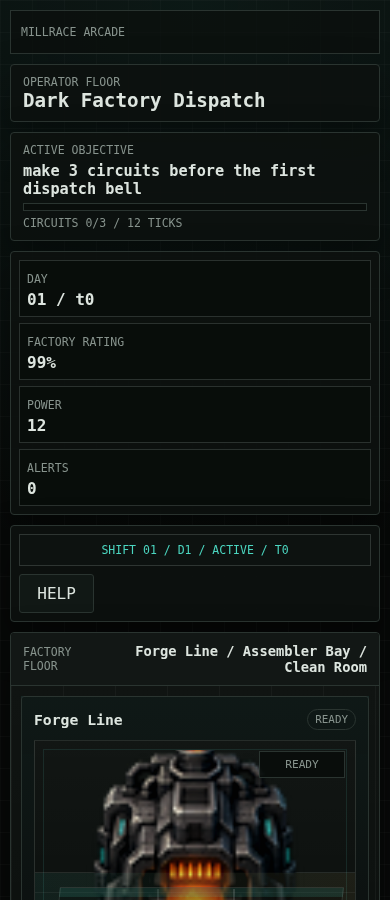
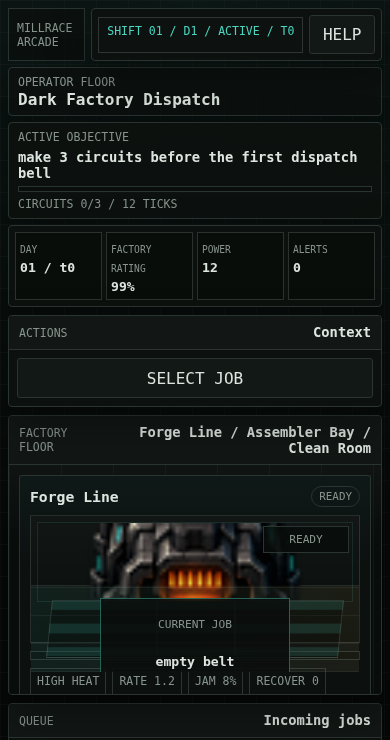
dark-factory-dispatch: refresh v0.7.0 training-shift smoke continuity

diff --git a/games/dark-factory-dispatch/versions/0.7.0/dark-factory-dispatch.js b/games/dark-factory-dispatch/versions/0.7.0/dark-factory-dispatch.js
@@ -1282,6 +1282,10 @@ const DarkFactoryDispatch = (() => {
     );
   }
 
+  function guidedTrainingShiftActive(state) {
+    return Boolean(tutorialActive(state) && state.restart && state.restart.run === 1);
+  }
+
   function setTutorialStepInPlace(state, stepId) {
     if (!state.tutorial || state.tutorial.stepId === stepId) {
       return;
@@ -5242,12 +5246,15 @@ const DarkFactoryDispatch = (() => {
     if (!state.tutorial || state.tutorial.completed) {
       return false;
     }
+    const pressureFrozen = guidedTrainingShiftActive(state);
     state.tutorial.completed = true;
     state.tutorial.status = "summary";
     state.tutorial.completedAtTick = state.tick;
     state.tutorial.contract.status = "complete";
     state.tutorial.contract.completedAtTick = state.tick;
-    state.tutorial.contract.timeRemaining = Math.max(0, state.tutorial.contract.deadline - state.tick);
+    state.tutorial.contract.timeRemaining = pressureFrozen
+      ? state.tutorial.contract.deadline
+      : Math.max(0, state.tutorial.contract.deadline - state.tick);
     state.tutorial.completionPersisted = persist
       ? writeTutorialCompletion(null, true) || state.tutorial.completionPersisted
       : state.tutorial.completionPersisted;
@@ -5261,7 +5268,9 @@ const DarkFactoryDispatch = (() => {
     if (!tutorialActive(state) || state.tutorial.contract.status !== "active") {
       return false;
     }
-    state.tutorial.contract.timeRemaining = Math.max(0, state.tutorial.contract.deadline - state.tick);
+    state.tutorial.contract.timeRemaining = guidedTrainingShiftActive(state)
+      ? state.tutorial.contract.deadline
+      : Math.max(0, state.tutorial.contract.deadline - state.tick);
     if (!tutorialContractSatisfied(state)) {
       return false;
     }
@@ -5554,7 +5563,9 @@ const DarkFactoryDispatch = (() => {
     if (completedJob.compromised) {
       applyCompromisedJobCompletion(state, lane, completedJob);
     }
-    evaluateContracts(state);
+    if (!guidedTrainingShiftActive(state)) {
+      evaluateContracts(state);
+    }
     evaluateTutorialContractInPlace(state);
   }
 
@@ -5646,12 +5657,15 @@ const DarkFactoryDispatch = (() => {
         break;
       }
       next.tick += 1;
-      maybeActivateEmergencyContracts(next);
-      advanceBreachState(next);
-      advanceGridState(next);
-      advanceRailSabotageState(next);
-      advanceFreightState(next);
-      advanceCrisisArbitrationState(next);
+      const trainingGateActive = guidedTrainingShiftActive(next);
+      if (!trainingGateActive) {
+        maybeActivateEmergencyContracts(next);
+        advanceBreachState(next);
+        advanceGridState(next);
+        advanceRailSabotageState(next);
+        advanceFreightState(next);
+        advanceCrisisArbitrationState(next);
+      }
       next.lanes.forEach((lane) => {
         advanceLaneRecovery(next, lane);
         if (lane.status !== "running" || !lane.currentJob) {
@@ -5670,7 +5684,9 @@ const DarkFactoryDispatch = (() => {
           completeLaneJob(next, lane);
         }
       });
-      evaluateContracts(next);
+      if (!trainingGateActive) {
+        evaluateContracts(next);
+      }
       evaluateTutorialContractInPlace(next);
     }
     next.log = next.log.slice(0, 8);

diff --git a/games/dark-factory-dispatch/versions/0.7.0/dark-factory-dispatch.css b/games/dark-factory-dispatch/versions/0.7.0/dark-factory-dispatch.css
@@ -1530,10 +1530,10 @@ select {
 
 @media (max-width: 720px) {
   .dispatch-shell {
+    gap: 8px;
     padding: 10px;
   }
 
-  .status-strip,
   .operator-layout,
   .left-rail,
   .right-rail {
@@ -1541,23 +1541,52 @@ select {
   }
 
   .status-strip {
+    grid-template-columns: minmax(0, 1fr) minmax(128px, auto);
+    grid-template-areas:
+      "back header-actions"
+      "identity identity"
+      "objective objective"
+      "stats stats";
+    gap: 6px;
     min-height: 0;
   }
 
+  .backlink {
+    grid-area: back;
+  }
+
+  .identity {
+    grid-area: identity;
+  }
+
+  .objective-card {
+    grid-area: objective;
+  }
+
+  .top-stats {
+    grid-area: stats;
+  }
+
+  .header-actions {
+    grid-area: header-actions;
+  }
+
   .operator-layout {
+    gap: 8px;
     grid-template-areas:
+      "actions"
       "floor"
       "left"
       "right"
-      "actions"
       "log";
   }
 
   .header-actions {
-    grid-template-columns: 1fr;
+    grid-template-columns: minmax(0, 1fr) auto;
+    gap: 6px;
+    padding: 6px;
   }
 
-  .top-stats,
   .resource-strip,
   .lane-board,
   .context-actions,
@@ -1591,6 +1620,24 @@ select {
     grid-template-columns: 1fr;
   }
 
+  .top-stats {
+    grid-template-columns: repeat(4, minmax(0, 1fr));
+    gap: 4px;
+    padding: 6px;
+  }
+
+  .stat {
+    padding: 5px 4px;
+  }
+
+  .stat span {
+    font-size: 0.6rem;
+  }
+
+  .stat strong {
+    font-size: 0.82rem;
+  }
+
   .factory-floor-panel {
     min-height: 0;
   }
@@ -1605,5 +1652,79 @@ select {
 
   .operator-log {
     max-height: none;
+  }
+}
+
+@media (max-width: 720px) and (max-height: 760px) {
+  .dispatch-shell {
+    padding: 8px;
+  }
+
+  .backlink,
+  .run-chip {
+    min-height: 36px;
+    padding: 6px 8px;
+  }
+
+  .icon-button {
+    width: 4.1rem;
+  }
+
+  .identity,
+  .objective-card {
+    padding: 7px 9px;
+  }
+
+  .identity h1 {
+    font-size: 1rem;
+    line-height: 1.08;
+  }
+
+  .objective-card strong {
+    font-size: 0.86rem;
+  }
+
+  .objective-meter,
+  .detail-meter {
+    height: 6px;
+  }
+
+  .panel-head {
+    min-height: 34px;
+    padding: 8px 10px;
+  }
+
+  .actions-panel .context-actions {
+    min-height: 52px;
+    padding: 8px;
+  }
+
+  .factory-floor-panel {
+    max-height: 280px;
+    overflow: hidden;
+  }
+
+  .lane-board {
+    max-height: 246px;
+    overflow: auto;
+  }
+
+  .lane-card {
+    grid-template-rows: auto minmax(128px, 1fr) auto auto;
+    gap: 8px;
+    min-height: 232px;
+    padding: 10px;
+  }
+
+  .lane-machine {
+    grid-template-rows: 70px 86px;
+  }
+
+  .machine-image {
+    padding: 6px;
+  }
+
+  .machine-image img {
+    max-height: 80px;
   }
 }

diff --git a/tests/test_dark_factory_dispatch_signal_breach.py b/tests/test_dark_factory_dispatch_signal_breach.py
@@ -13,7 +13,7 @@ class DarkFactoryDispatchSignalBreachTests(unittest.TestCase):
         result = self.run_node(
             """
             const game = require("./games/dark-factory-dispatch/dark-factory-dispatch.js");
-            let state = game.createInitialState({ seed: 77, faultsEnabled: false });
+            let state = game.createInitialState({ seed: 77, faultsEnabled: false, tutorialCompleted: true });
             state = game.stepFactory(state, 3);
             const breach = game.breachSurfaceState(state);
             const campaign = game.campaignSurfaceState(state);
@@ -62,7 +62,7 @@ class DarkFactoryDispatchSignalBreachTests(unittest.TestCase):
         result = self.run_node(
             """
             const game = require("./games/dark-factory-dispatch/dark-factory-dispatch.js");
-            let state = game.createInitialState({ seed: 78, faultsEnabled: false });
+            let state = game.createInitialState({ seed: 78, faultsEnabled: false, tutorialCompleted: true });
             state = game.stepFactory(state, 3);
             const compromisedId = state.queue.find((entry) => entry.compromised).id;
             const before = {
@@ -162,7 +162,7 @@ class DarkFactoryDispatchSignalBreachTests(unittest.TestCase):
         result = self.run_node(
             """
             const game = require("./games/dark-factory-dispatch/dark-factory-dispatch.js");
-            let compromised = game.createInitialState({ seed: 79, faultsEnabled: false });
+            let compromised = game.createInitialState({ seed: 79, faultsEnabled: false, tutorialCompleted: true });
             compromised = game.stepFactory(compromised, 3);
             const compromisedBefore = {
               intensity: compromised.breach.intensity,
@@ -175,7 +175,7 @@ class DarkFactoryDispatchSignalBreachTests(unittest.TestCase):
             compromised = game.startLane(compromised, "forge-line");
             compromised = game.stepFactory(compromised, 3);
 
-            let counter = game.createInitialState({ seed: 80, faultsEnabled: false });
+            let counter = game.createInitialState({ seed: 80, faultsEnabled: false, tutorialCompleted: true });
             counter = game.stepFactory(counter, 3);
             const counterBefore = {
               intensity: counter.breach.intensity,
@@ -226,7 +226,7 @@ class DarkFactoryDispatchSignalBreachTests(unittest.TestCase):
         result = self.run_node(
             """
             const game = require("./games/dark-factory-dispatch/dark-factory-dispatch.js");
-            let state = game.createInitialState({ seed: 81, faultsEnabled: false });
+            let state = game.createInitialState({ seed: 81, faultsEnabled: false, tutorialCompleted: true });
             state = game.stepFactory(state, 10);
             const failedSurface = game.breachSurfaceState(state);
             const reset = game.resetFactoryState(state);

diff --git a/tests/test_dark_factory_dispatch_arcade_release.py b/tests/test_dark_factory_dispatch_arcade_release.py
@@ -382,10 +382,14 @@ class DarkFactoryDispatchArcadeReleaseTests(unittest.TestCase):
             "conceptHierarchy",
             "nonblankFactoryFloor",
             "runningLane",
+            "postWaitTraining",
+            "advancedSystemsIdleDuringTraining",
             "jamOrRecovery",
             "shiftSummary",
             "directOverflow",
             "mobileNoOverlap",
+            "mobileFirstViewport",
+            "mobileFirstViewportFullyVisible",
             "consoleClean",
         ):
             self.assertTrue(smoke_report["checks"][check], check)
@@ -399,6 +403,13 @@ class DarkFactoryDispatchArcadeReleaseTests(unittest.TestCase):
         self.assertEqual(["scrap", "power", "stability", "circuits"], smoke_report["direct"]["freshLoad"]["visibleResources"])
         self.assertEqual("running", smoke_report["direct"]["runningLane"]["status"])
         self.assertEqual("production", smoke_report["direct"]["runningLane"]["feedback"])
+        self.assertGreaterEqual(smoke_report["direct"]["postWaitTraining"]["waitMs"], 12000)
+        self.assertTrue(smoke_report["direct"]["postWaitTraining"]["tutorialStillActive"])
+        self.assertTrue(smoke_report["direct"]["postWaitTraining"]["trainingTimeRemainingHeld"])
+        self.assertEqual("blocked", smoke_report["direct"]["postWaitTraining"]["laneStatus"])
+        self.assertFalse(smoke_report["direct"]["postWaitTraining"]["laneGridLocked"])
+        self.assertTrue(smoke_report["direct"]["postWaitTraining"]["recoverAvailable"])
+        self.assertEqual([], smoke_report["direct"]["postWaitTraining"]["advancedLogEntries"])
         self.assertEqual("blocked", smoke_report["direct"]["jamState"]["status"])
         self.assertTrue(smoke_report["direct"]["jamState"]["recoverAvailable"])
         self.assertEqual("recovering", smoke_report["direct"]["recoveryState"]["status"])
@@ -408,6 +419,11 @@ class DarkFactoryDispatchArcadeReleaseTests(unittest.TestCase):
         self.assertFalse(smoke_report["direct"]["narrow"]["objectiveFloorOverlap"])
         self.assertFalse(smoke_report["direct"]["narrow"]["floorActionsOverlap"])
         self.assertFalse(smoke_report["direct"]["narrow"]["objectiveActionsOverlap"])
+        self.assertTrue(smoke_report["direct"]["narrow"]["firstViewport"]["allRequiredSurfacesVisible"])
+        self.assertTrue(smoke_report["direct"]["narrow"]["firstViewport"]["allRequiredSurfacesFullyInViewport"])
+        self.assertTrue(smoke_report["direct"]["narrow"]["firstViewport"]["objectiveVisible"])
+        self.assertTrue(smoke_report["direct"]["narrow"]["firstViewport"]["factoryFloorVisible"])
+        self.assertTrue(smoke_report["direct"]["narrow"]["firstViewport"]["contextualActionsVisible"])
 
         for screenshot in smoke_report["screenshots"].values():
             self.assertTrue(Path(screenshot).is_file(), screenshot)

diff --git a/tests/test_dark_factory_dispatch_freight_lockdown.py b/tests/test_dark_factory_dispatch_freight_lockdown.py
@@ -13,7 +13,7 @@ class DarkFactoryDispatchFreightLockdownTests(unittest.TestCase):
         result = self.run_node(
             """
             const game = require("./games/dark-factory-dispatch/dark-factory-dispatch.js");
-            let first = game.createInitialState({ seed: 201, faultsEnabled: false });
+            let first = game.createInitialState({ seed: 201, faultsEnabled: false, tutorialCompleted: true });
             first = game.stepFactory(first, 2);
             const firstFreight = game.freightSurfaceState(first);
             const campaign = game.campaignSurfaceState(first);
@@ -77,7 +77,7 @@ class DarkFactoryDispatchFreightLockdownTests(unittest.TestCase):
         result = self.run_node(
             """
             const game = require("./games/dark-factory-dispatch/dark-factory-dispatch.js");
-            let state = game.createInitialState({ seed: 211, faultsEnabled: false });
+            let state = game.createInitialState({ seed: 211, faultsEnabled: false, tutorialCompleted: true });
             state = game.stepFactory(state, 2);
             state.resources.circuits = 5;
             state.resources.modules = 2;

diff --git a/tests/test_dark_factory_dispatch_rail_sabotage.py b/tests/test_dark_factory_dispatch_rail_sabotage.py
@@ -13,7 +13,7 @@ class DarkFactoryDispatchRailSabotageTests(unittest.TestCase):
         result = self.run_node(
             """
             const game = require("./games/dark-factory-dispatch/dark-factory-dispatch.js");
-            let first = game.createInitialState({ seed: 301, faultsEnabled: false });
+            let first = game.createInitialState({ seed: 301, faultsEnabled: false, tutorialCompleted: true });
             first = game.stepFactory(first, 2);
             const firstRail = game.railSabotageSurfaceState(first);
             const firstFreight = game.freightSurfaceState(first);
@@ -75,7 +75,7 @@ class DarkFactoryDispatchRailSabotageTests(unittest.TestCase):
         result = self.run_node(
             """
             const game = require("./games/dark-factory-dispatch/dark-factory-dispatch.js");
-            let state = game.createInitialState({ seed: 311, faultsEnabled: false });
+            let state = game.createInitialState({ seed: 311, faultsEnabled: false, tutorialCompleted: true });
             state = game.stepFactory(state, 2);
             state.resources.circuits = 5;
             state.resources.power = 12;

diff --git a/tests/test_dark_factory_dispatch_crisis_arbitration.py b/tests/test_dark_factory_dispatch_crisis_arbitration.py
@@ -13,7 +13,7 @@ class DarkFactoryDispatchCrisisArbitrationTests(unittest.TestCase):
         result = self.run_node(
             """
             const game = require("./games/dark-factory-dispatch/dark-factory-dispatch.js");
-            let first = game.createInitialState({ seed: 601, faultsEnabled: false });
+            let first = game.createInitialState({ seed: 601, faultsEnabled: false, tutorialCompleted: true });
             first = game.stepFactory(first, 4);
             const firstSurface = game.crisisArbitrationSurfaceState(first);
 
@@ -60,7 +60,7 @@ class DarkFactoryDispatchCrisisArbitrationTests(unittest.TestCase):
         result = self.run_node(
             """
             const game = require("./games/dark-factory-dispatch/dark-factory-dispatch.js");
-            let state = game.createInitialState({ seed: 611, faultsEnabled: false });
+            let state = game.createInitialState({ seed: 611, faultsEnabled: false, tutorialCompleted: true });
             state = game.stepFactory(state, 4);
             state.resources.circuits = 10;
             state.resources.power = 12;
